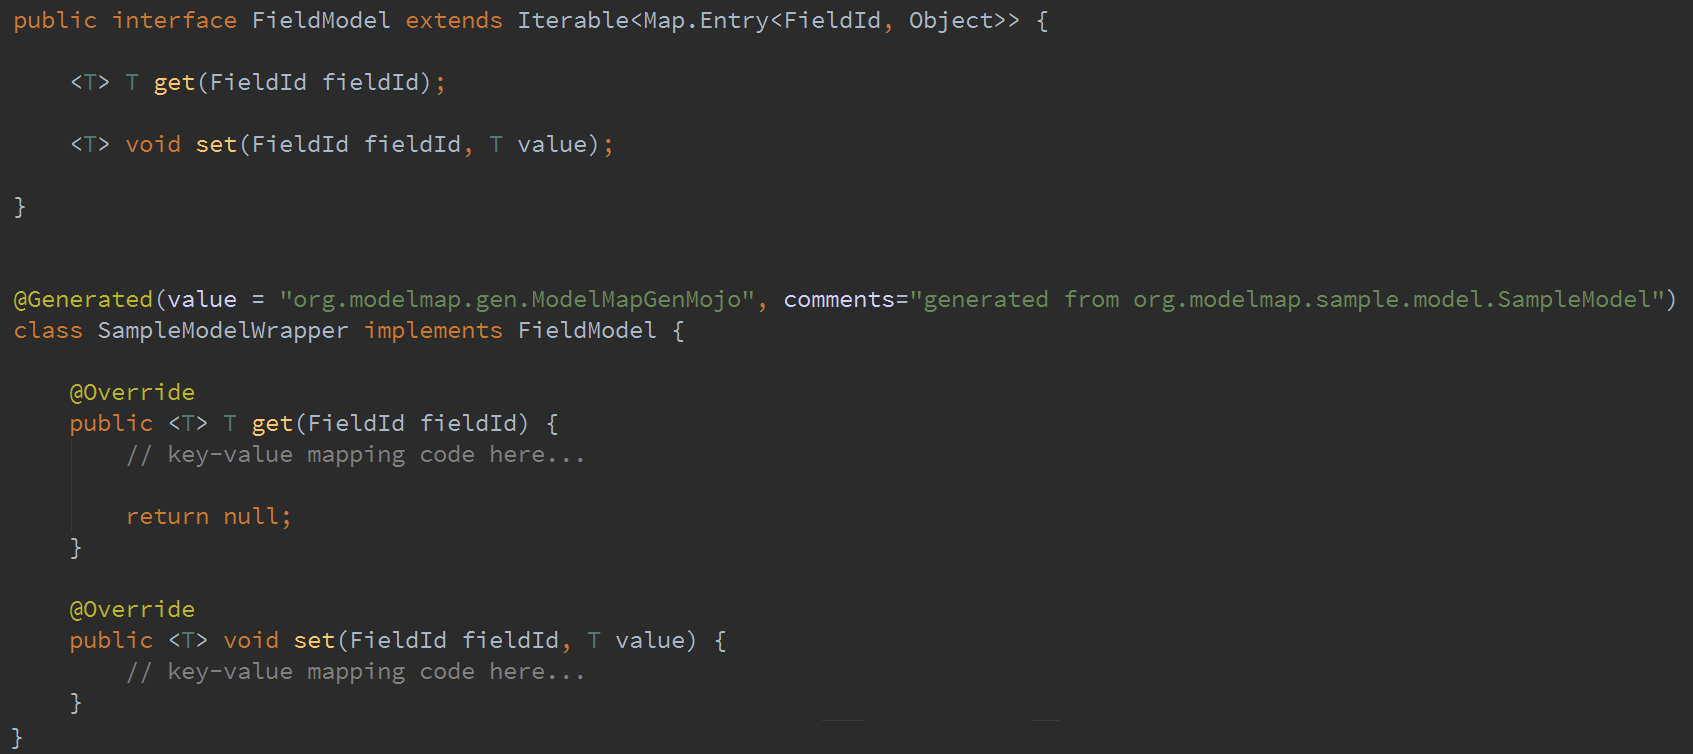
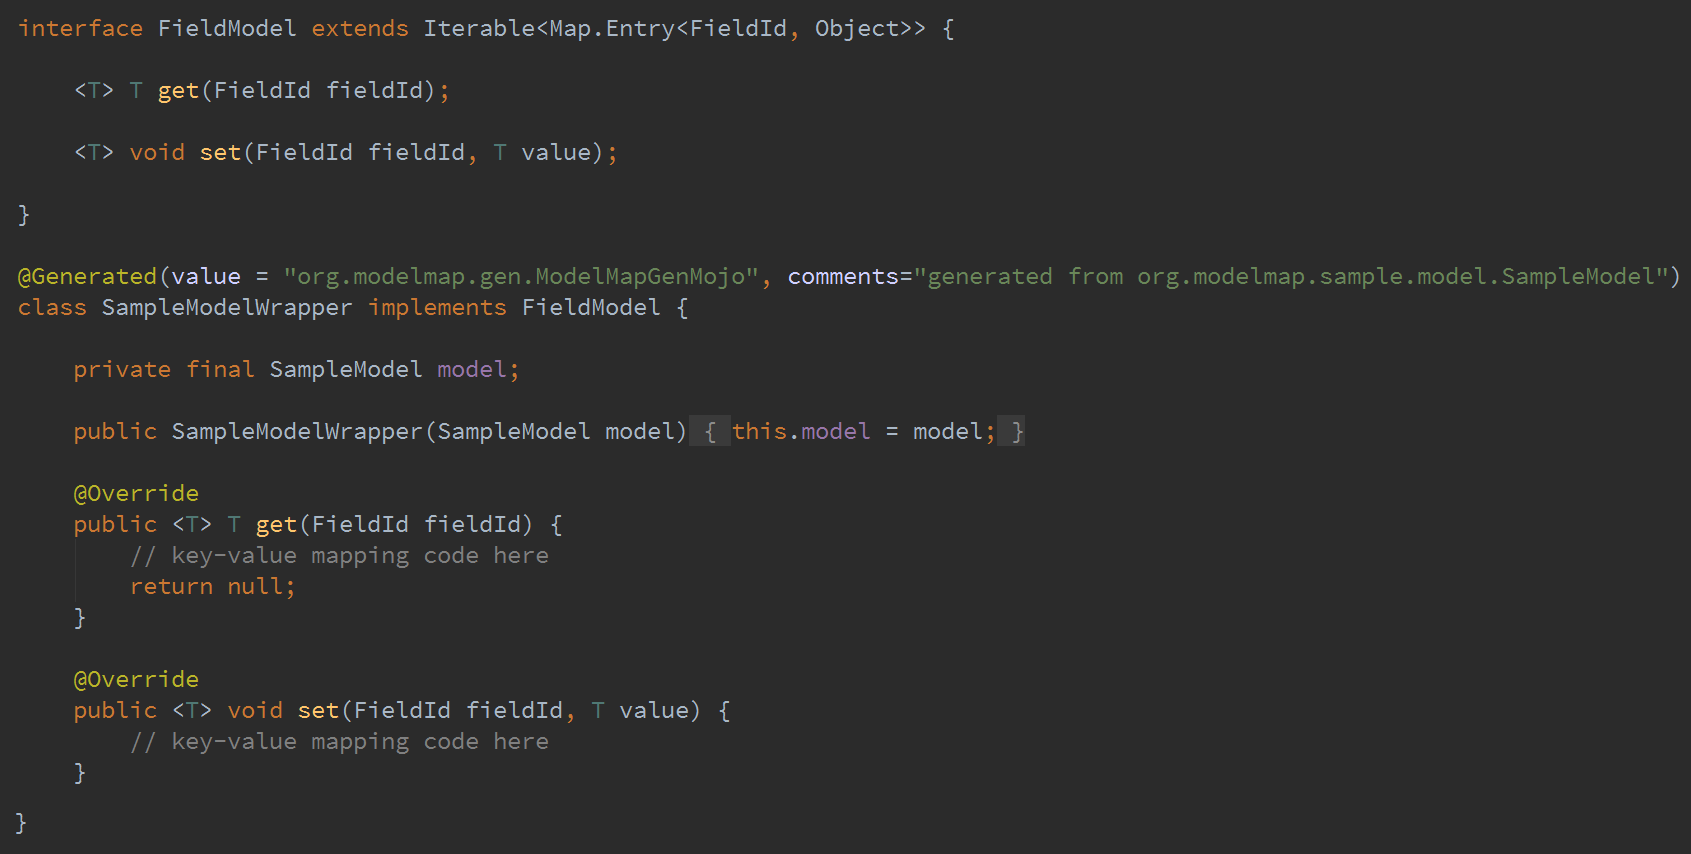
update codegen slides

diff --git a/doc/org_modelmap.html b/doc/org_modelmap.html
@@ -357,16 +357,6 @@
               <img width="100%" src="png/org_modelmap_maven_codegen_5.png">
             </div>
           </section>
-          <section>
-            <h2>Let's generate the key-value model</h2>
-            <div class="fragment">
-              <p>Github project contains 2 models : </p>
-              <ul>
-               <li>a small one (20 keys)</li> 
-               <li>a bigger one (400 keys)</li>
-              </ul>
-            </div>
-          </section>
         </section>
 
         <section>

diff --git a/core/src/main/java/org/modelmap/core/FieldModel.java b/core/src/main/java/org/modelmap/core/FieldModel.java
@@ -1,81 +1,43 @@
 package org.modelmap.core;
 
-import static java.util.stream.Collectors.toList;
+import java.awt.image.SampleModel;
+import java.util.Iterator;
+import java.util.Map;
+import javax.annotation.Generated;
 
-import java.util.*;
-import java.util.stream.Stream;
+interface FieldModel extends Iterable<Map.Entry<FieldId, Object>> {
 
-/**
- * An model that maps {@code FieldId} to values. Each {@code FieldId} can map to at most one value.
- */
-public interface FieldModel extends Iterable<Map.Entry<FieldId, Object>> {
-
-    /**
-     * @param fieldId the {@code FieldId} to read
-     * @return the the {@code FieldId} value
-     */
     <T> T get(FieldId fieldId);
 
-    /**
-     * @param fieldId the {@code FieldId} to update
-     * @param value the new {@code FieldId} value
-     */
     <T> void set(FieldId fieldId, T value);
 
-    /**
-     * return a sequential {@code Stream} with all key-value pairs
-     */
-    Stream<Map.Entry<FieldId, Object>> stream();
-
-    /**
-     * {@inheritDoc}
-     */
-    Spliterator<Map.Entry<FieldId, Object>> spliterator();
-
-    /**
-     * return a parallel {@code Stream} with all key-value pairs
-     */
-    Stream<Map.Entry<FieldId, Object>> parallelStream();
-
-    /**
-     * @return the {@code FieldInfo} FieldInfo for all this model {@code FieldId}
-     */
-    FieldInfo[] getFieldInfos();
-
-    /**
-     * @return all {@code FieldId}, with a not-null value
-     */
-    default List<FieldId> getFieldIds() {
-        return Arrays.stream(getFieldInfos()).map(FieldInfo::id).collect(toList());
-    }
-
-    /**
-     * Copy all the values for the {@code FieldModel} <code>source</code>
-     *
-     * @param source the source field model
-     */
-    default void setAll(FieldModel source) {
-        Arrays.stream(getFieldInfos())
-                        .filter(info -> source.get(info.id()) != null)
-                        .forEach(info -> set(info.id(), source.get(info.id())));
-    }
-
-    /**
-     * For all the {@code FieldId}, set their value to <code>null</code>
-     */
-    default void clear() {
-        Arrays.stream(getFieldInfos())
-                        .filter(info -> get(info.id()) != null)
-                        .forEach(info -> set(info.id(), null));
-    }
-
-    /**
-     * For all the {@code FieldId} tagged with the specified {@code TagId}, set their value to <code>null</code>
-     */
-    default void clear(TagId tag) {
-        Arrays.stream(getFieldInfos())
-                        .filter(info -> info.id().hasTag(tag) && get(info.id()) != null)
-                        .forEach(info -> set(info.id(), null));
-    }
-
 }
+
+@Generated(value = "org.modelmap.gen.ModelMapGenMojo", comments = "generated from org.modelmap.sample.model" +
+                ".SampleModel")
+class SampleModelWrapper implements FieldModel {
+
+    private final SampleModel model;
+
+    public SampleModelWrapper(SampleModel model) {
+        this.model = model;
+    }
+
+    @Override
+    public <T> T get(FieldId fieldId) {
+        // key-value mapping code here
+        return null;
+    }
+
+    @Override
+    public <T> void set(FieldId fieldId, T value) {
+        // key-value mapping code here
+    }
+
+    @Override
+    public Iterator<Map.Entry<FieldId, Object>> iterator() {
+        return null;
+    }
+}
+
+
